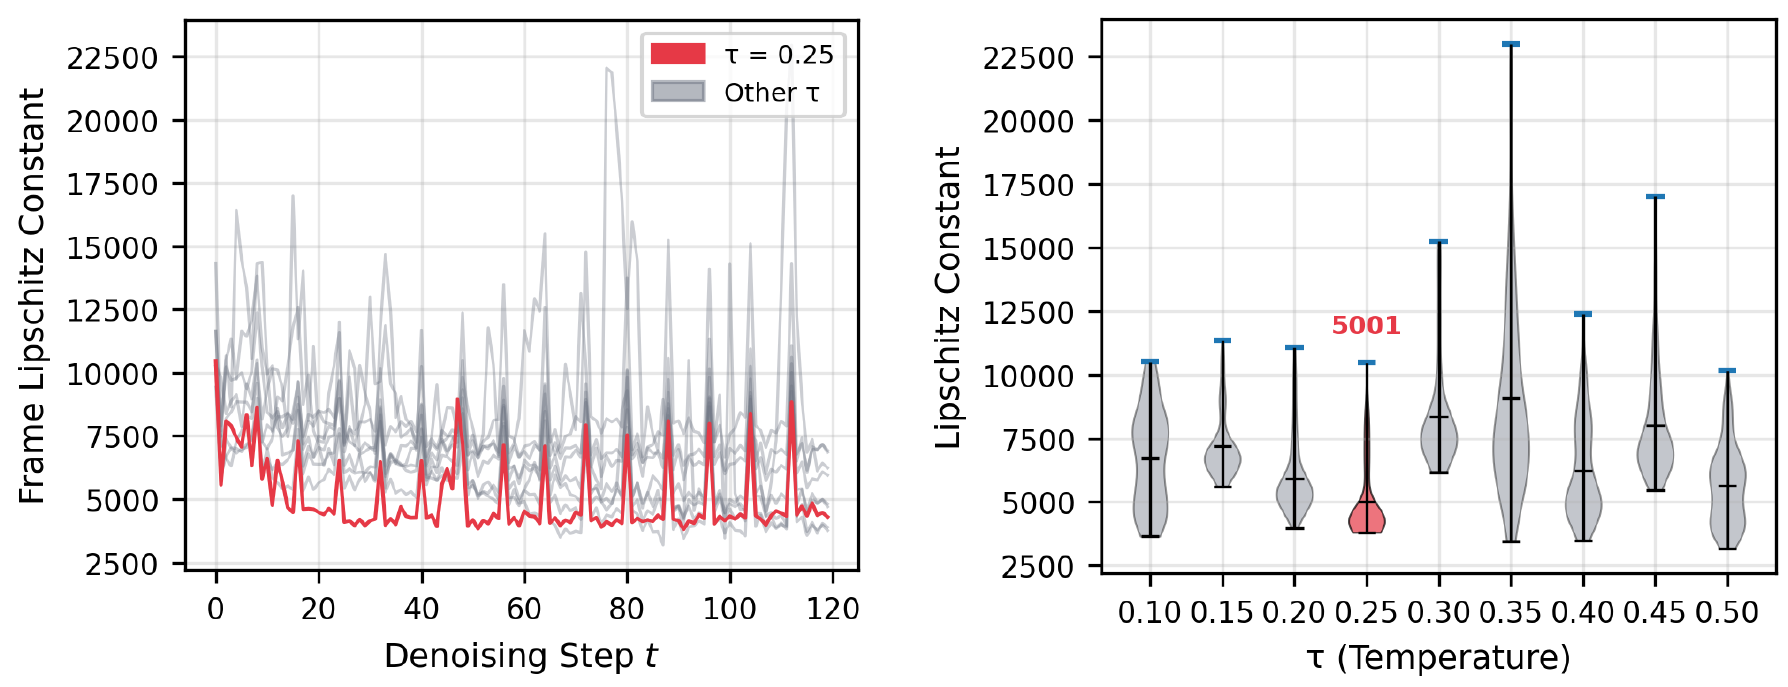
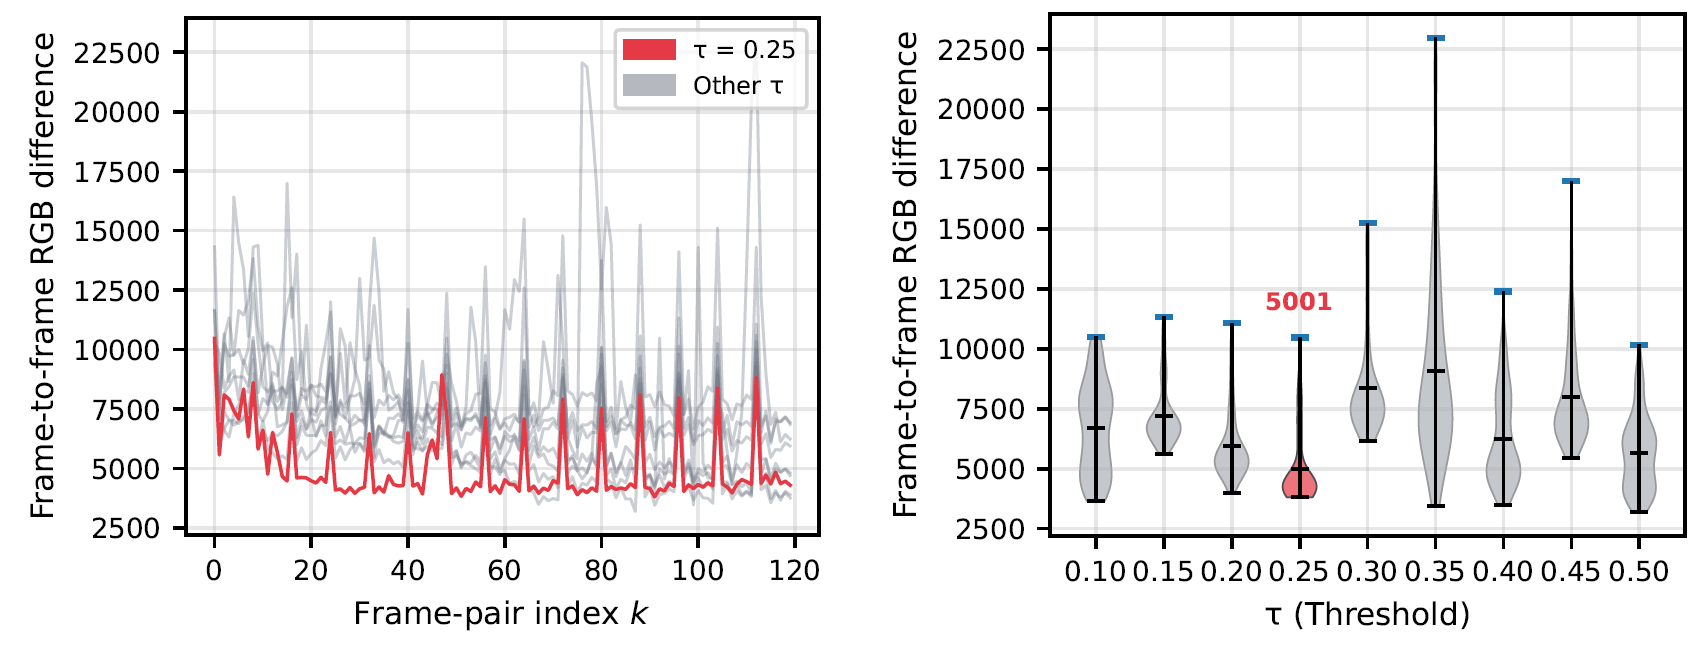
Align method descriptions with paper and update DAQ figure

diff --git a/index.html b/index.html
@@ -63,11 +63,11 @@
           <h1 class="title is-1 publication-title">TrajeQ: Trajectory-Preserving Flow Matching Quantization for Low-bit Video Generation</h1>
           <div class="is-size-5 publication-authors">
             <span class="author-block">
-              <a href="">Anonymus Authors</a><sup>1</sup></span>
+              <a href="">Anonymous Authors</a><sup>1</sup></span>
           </div>
 
           <div class="is-size-5 publication-authors">
-            <span class="author-block"><sup>1</sup>Anonymus</span>
+            <span class="author-block"><sup>1</sup>Anonymous</span>
           </div>
 
           <div class="column has-text-centered">
@@ -152,7 +152,7 @@
         <h2 class="title is-3">Abstract</h2>
         <div class="content has-text-justified">
           <p>
-           While flow matching (FM) has emerged as a prominent paradigm for high-quality video generation, its significant computational overhead presents a major obstacle to practical implementation. Although post-training quantization (PTQ) is an established approach for efficient generation, existing PTQ methods primarily minimize reconstruction error in a magnitude-centric manner. This objective is misaligned with deterministic FM trajectories, where low-bit quantization introduces velocity-field orientation errors that can compound across integration steps and drive the generation trajectory off-manifold. To address this issue, we introduce <em><strong>TrajeQ</strong></em> to preserve the geometric integrity of the velocity field and reduce trajectory drift under low-bit quantization. Our approach introduces <em>Curvature-Adaptive Quantization (CAQ)</em> to detect angular shifts across timesteps and mitigate geometric distortion via adaptive precision. We also integrate <em>Directional Bottleneck Preservation (DBP)</em>, a sensitivity-guided precision assignment scheme that retains only the most vulnerable layers in full precision. Experiments demonstrate that <em><strong>TrajeQ</strong></em> achieves state-of-the-art VBench performance and maintains stable video generation under extreme W4A4 and W3A6 quantization regimes where existing methods collapse. We provide the code in the supplementary material and the video results on the <a href="https://anonymous-orange.github.io/" target="_blank">https://anonymous-orange.github.io</a>.
+           While flow matching (FM) has emerged as a prominent paradigm for high-quality video generation, its significant computational overhead presents a major obstacle to practical implementation. Although post-training quantization (PTQ) is an established approach for efficient generation, existing PTQ methods primarily minimize reconstruction error in a magnitude-centric manner. This objective is misaligned with deterministic FM trajectories, where low-bit quantization introduces velocity-field orientation errors that can compound across integration steps and cause deviations from the full-precision trajectory. To address this issue, we introduce <em><strong>TrajeQ</strong></em> to preserve the geometric integrity of the velocity field and reduce trajectory drift under low-bit quantization. Our approach introduces <em>Curvature-Adaptive Quantization (CAQ)</em> to detect angular shifts across timesteps and mitigate geometric distortion via adaptive precision. We also integrate <em>Directional Bottleneck Preservation (DBP)</em>, a sensitivity-guided precision assignment scheme that retains only the most vulnerable layers in full precision. Experiments demonstrate that <em><strong>TrajeQ</strong></em> achieves state-of-the-art VBench performance and maintains stable video generation under extreme W4A4 and W3A6 quantization regimes where existing methods collapse. We provide the code in the supplementary material and the video results on the <a href="https://anonymous-orange.github.io/" target="_blank">https://anonymous-orange.github.io</a>.
           </p>
         </div>
       </div>
@@ -294,7 +294,7 @@
         <h2 class="title is-3" style="margin: 0.5rem 0;">Method</h2>
         <div class="content has-text-justified" style="padding: 0 0.5rem; margin: 0;">
           <p style="margin: 0;">
-            TrajeQ is the first quantization framework specifically engineered to preserve the geometric trajectory of Flow Matching models. In contrast to conventional approaches that minimize magnitude error and often lead to significant trajectory drift, TrajeQ prioritizes the integrity of vector field directionality. Our framework integrates two complementary mechanisms: Curvature-Adaptive Quantization (CAQ), which dynamically adapts precision by detecting trajectory curvature in real-time, and Directional Bottleneck Preservation (DBP), which identifies and safeguards structural bottlenecks. This synergistic approach enables TrajeQ to achieve high-fidelity video generation without structural collapse.
+            TrajeQ is the first quantization framework specifically engineered to preserve the geometric trajectory of Flow Matching models. In contrast to conventional approaches that minimize magnitude error and often lead to significant trajectory drift, TrajeQ prioritizes the integrity of vector field directionality. Our framework integrates two complementary mechanisms: Curvature-Adaptive Quantization (CAQ), which dynamically adapts precision using inter-step changes in activation direction, and Directional Bottleneck Preservation (DBP), which identifies and safeguards structural bottlenecks. This synergistic approach enables TrajeQ to achieve high-fidelity video generation without structural collapse.
           </p>
           <div class="column is-full" style="margin-top: 2rem;">
             <img src="./static/images/Figure1.jpg" alt="Figure 1: TrajeQ Overview" style="width: 100%; max-width: 1000px; margin: 0 auto; display: block;">
@@ -316,25 +316,22 @@
         <div class="content" style="padding: 0; margin: 0;">
           <h5 style="margin-top: 0; margin-bottom: 0.5rem;"><strong>Motivation</strong></h5>
           <p style="margin: 0 0 1rem 0; font-size: 0.95rem; line-height: 1.6;">
-            Flow Matching trajectories are geometrically non-uniform, containing high-curvature regions that are intrinsically unstable. Standard methods fail to account for this geometric nuance, causing significant drift when these critical "inflection points" are under-resolved by static quantization.
+            Flow Matching trajectories exhibit varying degrees of directional change during sampling. CAQ uses changes in activation direction to guide timestep-wise precision allocation, aiming to reduce trajectory drift under low-bit quantization.
           </p>
           
           <h5 style="margin-top: 1rem; margin-bottom: 0.5rem;"><strong>Key Mechanism</strong></h5>
-          <!-- <p style="margin: 0 0 1rem 0; font-size: 0.95rem; line-height: 1.6;">
-            CAQ monitors the trajectory's curvature in real-time by calculating the cosine angular shift between timesteps. When it detects sharp geometric turns (high curvature), it dynamically allocates higher precision to that specific step, compensating for the increased sensitivity.
-          </p> -->
           <ul style="margin: 0; padding-left: 20px;">
             <li style="margin-bottom: 5px;">
-              <strong>Curvature Sensitivity Identification:</strong> CAQ utilizes a cosine-based curvature proxy to precisely locate geometric segments where the trajectory changes direction rapidly, identifying them as high-sensitivity intervals prone to error amplification.
+              <strong>Timestep Selection:</strong> CAQ computes the cosine distance between consecutive flattened activations at each quantized layer to identify timesteps for additional precision.
             </li>
             <li>
-              <strong>Adaptive Precision:</strong> When it detects sharp geometric turns (high curvature), it dynamically allocates higher precision to that specific step, compensating for the increased sensitivity.
+              <strong>Adaptive Precision:</strong> When this score exceeds the threshold, CAQ increases the activation bit-width by one for the current layer and timestep.
             </li>
         </ul>
           
           <h5 style="margin-top: 1rem; margin-bottom: 0.5rem;"><strong>Impact</strong></h5>
           <p style="margin: 0; font-size: 0.95rem; line-height: 1.6;">
-            By prioritizing directional integrity over simple magnitude preservation, CAQ effectively minimizes angular distortion. This ensures the generated video follows the correct deterministic path without diverging into noise or artifacts.
+            CAQ allocates additional precision where activation directions change sharply. In our ablations, this allocation improves generation quality over random boosting at the same number of boosted timesteps.
           </p>
         </div>
       </div>
@@ -345,7 +342,7 @@
         <div class="content" style="padding: 0; margin: 0;">
           <h5 style="margin-top: 0; margin-bottom: 0.5rem;"><strong>Motivation</strong></h5>
           <p style="margin: 0 0 1rem 0; font-size: 0.95rem; line-height: 1.6;">
-            Standard error metrics like MSE often overlook layers with small activation magnitudes. However, our theoretical analysis reveals that these "structural bottlenecks" are geometrically unstable; even minimal quantization noise in these layers triggers disproportionately large angular deviations.
+            MSE can underemphasize angular distortion in layers with small activation norms. Our theoretical analysis shows that the same absolute perturbation can cause larger angular deviations at smaller activation norms, motivating sensitivity-guided layer preservation.
           </p>
           
           <h5 style="margin-top: 1rem; margin-bottom: 0.5rem;"><strong>Key Mechanism</strong></h5>
@@ -357,7 +354,7 @@
               <strong>Layer Sensitivity Analysis:</strong> We introduce a novel metric called "Directional Sensitivity (DS)" to pinpoint vulnerable layers prone to angular distortion.
             </li>
             <li>
-              <strong>Strategic Preservation:</strong> Guided by upon metric, DBP selectively retains the identified structural bottlenecks in FP16 precision. This targeted protection neutralizes error amplification in critical components, allowing the majority of the model to be efficiently quantized without structural collapse.
+              <strong>Strategic Preservation:</strong> Guided by DS rankings, DBP selectively retains high-sensitivity layers in FP16 under a fixed parameter budget. This targeted preservation protects vulnerable components while keeping the majority of the model quantized.
             </li>
         </ul>
           
